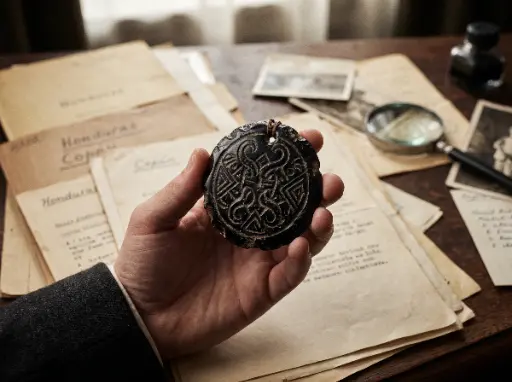
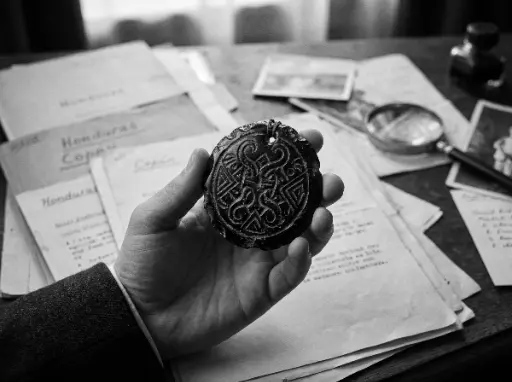
aggiornamento

diff --git a/layouts/_default/baseof - Copia.html b/layouts/_default/baseof - Copia.html
@@ -69,6 +69,7 @@
     body, 
     p, 
     li, 
+    span, 
     div, 
     .nested-copy-line-height, 
     .mid-gray, 
@@ -84,14 +85,7 @@
       color: #e50303 !important;
 	  font-weight: 700 !important;
 	}
-	
-			
-	header h2, .tc-l h2 { /*il sottotitolo description del header di _index*/
-    font-family: 'Playfair Display', Georgia, serif !important;  
-    color: #a1a49a !important;                                
-    font-size: 2rem !important;                             
-    }
-	
+
     h1, h3, h4, h5, h6, .f1, .f3, .f4  {
       font-family: 'Playfair Display', Georgia, serif !important;
       color: #cb3737 !important;

diff --git a/content/scene/02_scena.md b/content/scene/02_scena.md
@@ -4,31 +4,33 @@ date: 1922-12-30
 title: Scena II
 summary: La mattina del 30 dicembre, dopo una sontuosa colazione nelle sale del "Savoy Hotel" i nostri si dividono.
 ---
-La mattina del 30 dicembre, dopo una sontuosa colazione nelle sale del "Savoy Hotel" i nostri si dividono. Betty Sunderland, che ha rivelato di essere una egittologa, possiede un negozio di antichità nel quartiere di Soho. Moretti, interessato, le chiede di visitarlo. Si aggregano Worra e Holst. Miller invece ha delle faccende da sbrigare al consolato americano.
-Il miltare, dopo aver blandito la segretaria, viene ricevuto dal {{<link_note testo="Maggiore Vance" url="/png/maggiore_vance">}}. Senza troppi convenevoli l'ufficiale affida a Miller un incarico, legato al suo invito alla collezione Maudslay. Gli viene consegnato un finto orologio, che in realtà è una piccola macchina fotografica. Deve documentare e indagare sui reperti della collezione, provenienti dal sito di ...... nel Centro America, e sul suo curatore, il Dottor Arthur Pendinghton. Il sito è avvolto da un alone di mistero e il comando militare americano vuole saperne di più. Ricevuta la missione, Miller si intrattiene nel resto della giornata con la segretaria di Vance.
-Intanto gli altri raggiungono il numero 322 di Craven Road, a Soho, dove è collocato il negozio "Antiquariato da Betty". Nel negozio permane un odore stantio, segno che è da giorni che il negozio non viene aperto. A prima vista pare il classico negozio "da turisti", ma Sunderland declama orgogliosamente i vari pezzi esposti. Il dialogo prosegue sull'antico Egitto. La donna mostra un monile a forma di sole e di luna, allundendo al mito di Akhet, la stagione dell'inondazione, che simboleggia il ciclo di rinascita. Tuttavia Worra dissente, visibilmente infastidito, affermando che Akhet rappresenta in realtà un mito negativo. Dopo qualche parola di dibattito sull'argomento Worra chiede di parlare privatamente con Sunderland in un secondo momento.
-I quattro decidono di proseguire la giornata recandosi alla biblioteca del British Museum per cercare informazioni sulla collezione Maudslay. Presa una carrozza, dove il vettorino Elias guarda con circospezione i lineamenti orientali di Worra, giungono al museo. Sunderland, frequentatrice del posto, convice un inserviente, Julien, a lasciarli entrare, malgrado la biblioteca sia chiusa per l'allestimento della collezione Maudslay. Dopo un'accurata ricerca fra i testi vengono ritrovati degli {{<link_note testo="scritti " url="/indizi/info_spedizione_maudslay">}}sulla spedizione in Centro America:
+La mattina del 30 dicembre, dopo una sontuosa colazione nelle sale del “Savoy Hotel” i nostri si dividono. Betty Sunderland, che si è rivelata una egittologa, possiede un negozio di antichità nel quartiere di Soho. Moretti, interessato, le chiede di visitarlo. Si aggregano Worra e Holst, insieme alla segretaria di Sunderland, Grace.
 
-***Alfred Percival Maudslay (1850–1931) è stato un diplomatico britannico e uno dei primi veri archeologi scientifici a esplorare le giungle dell'america centrale (tra il 1881 e il 1894). mentre esplorava le rovine perdute dei maya (come copán, quiriguá, yaxchilán e palenque), si rese conto che la giungla stava divorando i monumenti. decise quindi di preservarli, non solo portando via reperti, ma realizzando stampi immensi e fotografie precisissime. Giganti di gesso e cartapesta: il cuore della collezione non sono oggetti originali, ma calchi a grandezza naturale. Maudslay e i suoi operai realizzarono calchi di enormi stele di pietra, altari e monoliti usando tonnellate di gesso e una tecnica a base di carta bagnata (cartapesta). nel museo, queste riproduzioni perfette si innalzano per metri verso il soffitto.
-Architravi e rilievi di sangue: ci sono pezzi originali, come i celebri architravi in pietra di yaxchilán. questi rilievi mostrano re e regine maya intenti in rituali di salasso***
+Miller invece ha delle faccende da sbrigare al consolato americano. Il militare, dopo averne blandito la segretaria, viene ricevuto dal {{<link_note testo="Maggiore Vance" url="/png/maggiore_vance">}}. Senza troppi convenevoli l’ufficiale affida a Miller un incarico, legato al suo invito alla collezione Maudslay. Gli viene consegnata una piccola macchina fotografica, camuffata da orologio. Deve documentare e indagare sui reperti della collezione, provenienti dal sito di Copán nel Centro America, e sul suo curatore, il Dottor Arthur Pendinghton. Il sito è avvolto da un alone di mistero e il comando militare americano vuole saperne di più. Ricevuta la missione, Miller si intrattiene per il resto della giornata con la segretaria di Vance.
 
----
+Intanto gli altri raggiungono il numero 322 di Craven Road, a Soho, dove è situato il negozio “Antiquariato da Betty”. Nel negozio permane un odore stantio, segno che è da giorni che il negozio non viene aperto. A prima vista pare il classico negozio “da turisti”, ma Sunderland declama orgogliosamente i vari pezzi esposti ai suoi ospiti. Il dialogo prosegue sull’antico Egitto. La donna mostra un monile a forma di sole e di luna, alludendo al mito di Akhet, la stagione dell’inondazione, che simboleggia il ciclo della rinascita. Tuttavia Worra dissente, visibilmente infastidito, affermando che Akhet rappresenta in realtà un mito negativo. Dopo qualche parola di dibattito sull’argomento, Worra chiede di parlare privatamente con Sunderland in un secondo momento. I quattro decidono di proseguire la giornata recandosi alla biblioteca del British Museum per cercare informazioni sulla collezione Maudslay. Presa una carrozza, il vetturino che la conduce, Elias, guarda con circospezione i lineamenti orientali di Worra. Giunti al museo, Sunderland, frequentatrice del posto, convince un inserviente, Julien, a lasciarli entrare, malgrado la biblioteca sia chiusa per l’allestimento della collezione Maudslay. Dopo un’accurata ricerca tra i testi, vengono ritrovati degli {{<link_note testo="scritti " url="/indizi/info_spedizione_maudslay">}} sulla spedizione in Centro America:
+
+***Alfred Percival Maudslay (1850–1931) è stato un diplomatico britannico e uno dei primi veri archeologi scientifici a esplorare le giungle dell’america centrale (tra il 1881 e il 1894). Mentre esplorava le rovine perdute dei maya (come Copán, Quiriguá, Yaxchilán e Palenque), si rese conto che la giungla stava divorando i monumenti. decise quindi di preservarli, non solo portando via reperti, ma realizzando stampi immensi e fotografie precisissime. Giganti di gesso e cartapesta: il cuore della collezione non sono oggetti originali, ma calchi a grandezza naturale. Maudslay e i suoi operai realizzarono calchi di enormi stele di pietra, altari e monoliti usando tonnellate di gesso e una tecnica a base di carta bagnata (cartapesta). Nel museo, queste riproduzioni perfette si innalzano per metri verso il soffitto. Architravi e rilievi di sangue: ci sono pezzi originali, come i celebri architravi in pietra di Yaxchilán. questi rilievi mostrano re e regine maya intenti in rituali di salasso.***
+
+<br>
 
 1 gennaio 1923
 
-La sera del 1 gennaio i cinque si recano alla cena di inaugurazione della collezione Maudsley. Qui incontrano il Professor Smith, che li accoglie calorosamente. Molto eccitato, anticipa qualche informazione sul suo simposio riguardante la parapsicologia che si terrà fra due giorni e di foto, a suo dire, straordinarie. Ad un certo punto della serata, il Dottor Pendinghton, curatore della collezione Maudslay, prende la parola. Descrive la spedizione, il mondo antico dell'America Centrale. Si sofferma sulle incisioni di un portone esposto, che descrive le pratiche sacrificali di quei popoli, la morte volontaria e beata del sacrificato, l'onore di diventare il "cibo degli dei".
-Fra le tante persone che affollano la sala, Worra e Holst notano un {{<link_note testo="uomo" url="/png/uomo_sconosciuto">}}, dai capelli e dai baffi folti e neri. Ha tratti mediorientali, forse un turco. Sembra osservare con uno sguardo carico di odio Smith. Il professore pare conoscerlo, ma senza darlo a intendere. L'uomo sconosciuto si allontana dalla sala. Holst lo segue, ma viene seminato. Raggiunta un'altra sala, nota il movimento di alcune tende. Osservando dalla finestra, nota delle impronte sulla neve, che si dirigono verso l'ingresso. Torna nella sala del ricevimento e si confronta sull'accaduto con Worra, Holst fa uno schizzo dello sconosciuto.
-Durante la serata, Miller procede con la sua missione. Cerca di salire ai piani superiori del museo, in cerca dell'ufficio di Pendinghton. Tuttavia non riesce a oltrepassare una porta chiusa a chiave. Sunderland, accortasi del comportamento quantomeno sospetto di Miller decide di aiutarlo, scassinado la serratura. In cambio vuole conoscere le intenzioni di Miller, essendo la donna appasionata di intrighi e misteri. Oltrepassando il disimpegno che porta al primo piano, Miller racconta della sua missione e del sito di ...... dell'America Centrale. Arrivati al primo piano e scassinata la porta dell'ufficio di Pendinghton, i due trovano all'interno della stanza:
+La sera del 1 gennaio i cinque si recano alla cena di inaugurazione della collezione Maudsley. Qui incontrano il Professor Smith, che li accoglie calorosamente. Molto eccitato, anticipa qualche informazione del simposio sulla parapsicologia che si terrà fra due giorni, e di foto, a suo dire straordinarie. Ad un certo punto della serata, il Dottor Pendinghton, curatore della collezione Maudslay, prende la parola. Descrive la spedizione, il mondo antico dell’America Centrale. Si sofferma sulle incisioni di un portone esposto, rappresentanti le pratiche sacrificali di quei popoli, la morte volontaria e beata del sacrificato, l’onore di diventare il “cibo degli dei”. Fra le tante persone che affollano la sala, Worra e Holst notano un {{<link_note testo="uomo" url="/png/uomo_sconosciuto">}}, dai capelli e baffi folti e neri. Ha tratti mediorientali, forse un turco. Sembra osservare con uno sguardo carico di odio Smith. Il professore pare conoscerlo, ma senza darlo a intendere. L’uomo sconosciuto si allontana dalla sala. Holst lo segue, ma viene seminato. Raggiunta un’altra sala, vede il movimento di alcune tende. Osservando dalla finestra, nota delle impronte sulla neve, che si dirigono verso l’ingresso. Holst torna nella sala del ricevimento e mentre si confronta sull’accaduto con Worra, fa uno schizzo dello sconosciuto.
+
+Durante la serata, Miller procede con il suo incarico. Si dirige ai piani superiori del museo, in cerca dell’ufficio di Pendinghton. Tuttavia non riesce a oltrepassare una porta chiusa a chiave. Sunderland, che aveva seguito Miller, accortasi del suo comportamento quantomeno insolito, decide di aiutarlo, scassinando la serratura. In cambio vuole conoscere le intenzioni di Miller, essendo la donna appassionata di intrighi e misteri. Oltrepassando il disimpegno che porta al primo piano, Miller racconta della sua missione e del sito di Copán in America Centrale. Arrivati al primo piano e scassinata la porta dell’ufficio di Pendinghton, i due trovano all’interno della stanza:
  
-- un documento ancora fresco di scrittura, l'elenco degli oggetti della collezione Maudslay. Un oggetto, un medaglione di ossidiana è sottolineato più volte;
--  un libretto degli assegni, con il timbro del British Museum. Uno di essi è intestato a Pendinghton, per la faraonica cifra di 5000 sterline;
+- un documento ancora fresco di scrittura, l’elenco degli oggetti della collezione Maudslay. Un oggetto, un medaglione di ossidiana è sottolineato più volte
+- un libretto degli assegni, con il timbro del British Museum. Uno di essi è intestato a Pendinghton, per la faraonica cifra di 5000 sterline
 - in uno schedario, oltre a documenti personali di Pendinghton, un grosso fascicolo con una {{< link_note testo="foto degli scavi della spedizione Maudslay" url="/indizi/foto_scavi_maudslay" >}} e una {{< link_note testo="foto di un medaglione di ossidiana" url="/indizi/foto_medaglione_scavi_maudslay">}} .
   
-Sunderland osserva le incisioni sul medaglione, ma non le comprende. E' convinta che sia una lingua sconosciuta, appare come una mescolanza di persiano e egiziano. Inoltre è certa di non aver visto il medaglione fra i reperti esposti. Fa uno schizzo sia del simbolo dell'altare, presente nella foto della spedizione, sia del medaglione. Mentre è intenta a riprodurre gli oggetti, un profondo senso di inquietudine misto a nausea la assale. 
-Miller, dopo aver scattato varie foto, insieme a Sunderland, tornano nella sala principale del ricevimento.
-Sulderland, incuriosita dalle cospicue disponibilità di danaro di Smith, vorrebbe scambiare due parole in proposito con il Professore. Non riesce, in quanto l'uomo è impegnato con altri invitati, ma anche perchè visibilmente alticcio. Sunderland prosegue la visita della collezione Maudslay. I reperti esposti sono indiscutibilmenti legati all'occulto, ma nessuno di essi le causa la profonda inquietudine procurata dalla visione del simbolo dell'altare e del medaglione. La donna non scorge nessun riferimento negli oggetti esposti alla lingua sconosciuta del medaglione.
-La serata si conclude con il fido {{<link_note testo="Beddow" url="/png/Beddow">}}, maggiordomo e confidente del Professor Smith, che scorta il padrone, visibilemente ubriaco, all'uscita del ricevimento.
+Sunderland osserva le incisioni sul medaglione, ma non le comprende. E’ convinta che sia una lingua sconosciuta, appare come una mescolanza di persiano e egiziano. Inoltre è certa di non aver visto il medaglione fra i reperti esposti. Fa uno schizzo sia del simbolo dell’altare, presente nella foto della spedizione, sia del medaglione. Mentre è intenta a riprodurre gli oggetti, un profondo senso di inquietudine misto a nausea la assale. Miller, dopo aver scattato varie foto, insieme a Sunderland, tornano nella sala principale del ricevimento. Sunderland, incuriosita dalle cospicue disponibilità di danaro di Smith, vorrebbe scambiare due parole in proposito con il Professore. Non riesce, in quanto l’uomo è impegnato con altri invitati, ma anche perchè visibilmente alticcio. Sunderland prosegue la visita della collezione Maudslay. I reperti esposti sono indiscutibilmente legati all’occulto, ma nessuno di essi le causa la profonda inquietudine provocata dalla visione del simbolo dell’altare e del medaglione. La donna non scorge nessun riferimento negli oggetti esposti alla lingua sconosciuta del medaglione. La serata si conclude con il fido {{<link_note testo="Beddow" url="/png/Beddow">}}, maggiordomo e confidente del Professor Smith, che scorta il padrone, visibilmente ubriaco, all’uscita del ricevimento.
 
 ---
 
 ## Indagini
+
+- chi è l'uomo sconosciuto dai lineamenti mediorientali e che rapporti ha con il Professor Smith?
+- la cifra pagata dal British Museum al Dottor Pendinghton è faraonica. Che cosa c'è sotto?
+- cosa rappresenta il misterioso medaglione di ossidiana e perchè non è fra i reperti esposti?
+  

diff --git a/content/credits/index.md b/content/credits/index.md
@@ -4,9 +4,21 @@ title: Credits
 description: I ruolatori dell'avventura
 ---
 
-## Il Custode che tira i fili dell'avventura: Simone
-## Alfonso Moretti ruolato da: Franca
-## Bryan Thao Worra ruolato da: Paola
-## Elisabeth “Betty” Sunderland ruolata da: Gianluca
-## Jarrod Holst ruolato da: Simone
-## Nathaniel R. Miller ruolato da: Giuseppe
+<br>
+
+<span style="color: gray; font-size: 23px; ">
+
+Il Custode che tira i fili dell'avventura: <span style="color: #9b2c2c; font-weight: bold ">Simone</span>
+
+Alfonso Moretti ruolato da: <span style="color: #9b2c2c; font-weight: bold ">Franca</span>
+
+Bryan Thao Worra ruolato da: <span style="color: #9b2c2c; font-weight: bold ">Paola</span>
+
+Elisabeth “Betty” Sunderland ruolata da: <span style="color: #9b2c2c; font-weight: bold ">Gianluca</span>
+
+Jarrod Holst ruolato da: <span style="color: #9b2c2c; font-weight: bold ">Simone</span>
+
+Nathaniel R. Miller ruolato da: <span style="color: #9b2c2c; font-weight: bold ">Giuseppe</span>
+
+</span>
+

diff --git a/content/indizi/info_spedizione_maudslay.md b/content/indizi/info_spedizione_maudslay.md
@@ -2,10 +2,8 @@
 type: indizio
 title: Informazioni sulla spedizione Maudslay
 ---
-<br><br>
-{{< figure src="/images/02_scavi_maudslay.webp" >}}
 
-<br><br>
+
 ## Indagini
 
 - ***Alfred Percival Maudslay (1850–1931) è stato un diplomatico britannico e uno dei primi veri archeologi scientifici a esplorare le giungle dell'america centrale (tra il 1881 e il 1894). mentre esplorava le rovine perdute dei maya (come copán, quiriguá, yaxchilán e palenque), si rese conto che la giungla stava divorando i monumenti. decise quindi di preservarli, non solo portando via reperti, ma realizzando stampi immensi e fotografie precisissime. Giganti di gesso e cartapesta: il cuore della collezione non sono oggetti originali, ma calchi a grandezza naturale. Maudslay e i suoi operai realizzarono calchi di enormi stele di pietra, altari e monoliti usando tonnellate di gesso e una tecnica a base di carta bagnata (cartapesta). nel museo, queste riproduzioni perfette si innalzano per metri verso il soffitto.

diff --git a/content/png/uomo_sconosciuto.md b/content/png/uomo_sconosciuto.md
@@ -9,3 +9,9 @@ title: Uomo sconosciuto
 
 - Sembra conoscere il Professor Smith. Lo osserva con uno sguardo carico di odio. Il professore pare conoscerlo, ma senza darlo a intendere.
 - Ha tratti mediorientali, forse un turco.
+
+<br>
+
+Incontri
+ 
+ {{< link_note testo="All'inaugurazione della collezione Maudslay" url="/scene/02_scena" >}} 

diff --git a/content/note/01_nota_smith.md b/content/note/01_nota_smith.md
@@ -2,6 +2,9 @@
 type: nota
 title: Cosa sappiamo del nostro amico Smith
 ---
-{{< link_note testo="Scena I" url="/scene/01_scena" >}} 
+
 {{< figure src="/images/01_nota_smith.webp" >}}
 
+<br>
+
+Riferimenti {{< link_note testo="Scena I" url="/scene/01_scena" >}} 

diff --git a/content/note/01_telegramma_smith.md b/content/note/01_telegramma_smith.md
@@ -2,5 +2,9 @@
 type: nota
 title: Telegramma di invito di Smith
 ---
-{{< link_note testo="Scena I" url="/scene/01_scena" >}} 
+
 {{< figure src="/images/01_telegramma_smith.webp" >}}
+
+<br>
+
+Riferimenti {{< link_note testo="Scena I" url="/scene/01_scena" >}} 

diff --git a/content/png/beddow.md b/content/png/beddow.md
@@ -6,3 +6,9 @@ title: Beddow
 {{< figure src="/images/02_beddow.webp" >}}
 
 Fidato maggiordomo e confidente del Professor Arthur Julius Smith
+
+<br>
+
+Incontri
+ 
+ {{< link_note testo="All'inaugurazione della collezione Maudslay" url="/scene/02_scena" >}} 

diff --git a/content/indizi/foto_medaglione_scavi_maudslay.md b/content/indizi/foto_medaglione_scavi_maudslay.md
@@ -2,10 +2,10 @@
 type: indizio
 title: Foto del medaglione di Ossidiana della spedizione Maudslay
 ---
-{{< link_note testo="Scena II" url="/scene/02_scena" >}} 
+
 {{< figure src="/images/02_medaglione_maudslay.webp" >}}
 
----
+
 
 ## Indagini
 

diff --git a/content/indizi/foto_scavi_maudslay.md b/content/indizi/foto_scavi_maudslay.md
@@ -2,10 +2,10 @@
 type: indizio
 title: Foto degli scavi della spedizione Maudslay
 ---
-{{< link_note testo="Scena II" url="/scene/02_scena" >}} 
+
 {{< figure src="/images/02_scavi_maudslay.webp" >}}
 
----
+
 
 ## Luogo del ritrovamento
 

diff --git a/content/personaggi/index.md b/content/personaggi/index.md
@@ -1,9 +1,8 @@
 ---
 featured_image: images/horror_hero.webp
 title: Personaggi
-description: I protagonisti dell'avventura
 ---
-
+## I protagonisti dell'avventura
 ---
 
 ### Alfonso Moretti

diff --git a/content/note/_index.md b/content/note/_index.md
@@ -4,4 +4,4 @@ featured_image: images/horror_hero.webp
 title: Note
 ---
 
-####  Le informazioni apprese durante le indagini
+#### Le informazioni apprese durante le indagini
